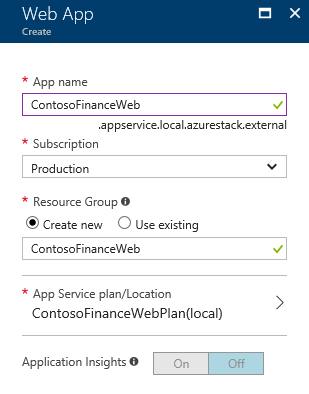
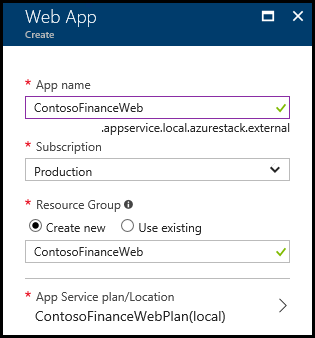
updated lab guide

diff --git a/Hands-on lab/HOL step-by-step - Azure Stack.md b/Hands-on lab/HOL step-by-step - Azure Stack.md
@@ -736,7 +736,7 @@ The first step to getting the website up and running is to configure the SQL Dat
 
 ### Task 2: Register resource providers in the tenant subscription
 
-1.  Launch the Azure Stack tenant portal and click More services -\> search for Subscriptions -\> click the subscription and then click Resource Providers.
+1.  Launch the Azure Stack tenant portal and click All services -\> search for Subscriptions -\> click the subscription and then click Resource Providers.
 
 2.  Click Register by each of the unregistered resource providers except Microsoft.Resources. After the RPs are registered your screen should look like this:
 
@@ -810,7 +810,7 @@ In this exercise, you will provision a website using the Azure Stack portal. The
 
 ### Task 1: Create the Web App
 
-1.  From within the Azure tenant portal, click New -\> Web + Mobile -\> Web App.
+1.  From within the Azure tenant portal, click **+Create a resource -\> Web -\> Web App.**
 
 2.  On the **Everything** blade, select **Web App** followed by **Create**.
 
@@ -829,6 +829,7 @@ In this exercise, you will provision a website using the Azure Stack portal. The
     -   App Name: **Specify a unique and valid URL (until the green check mark appears)**.
 
     -   Resource group: **ContosoFinanceWeb**
+    -   Application Insights - **Disabled**
 
         ![Create blade fields are set to the previously defined settings.](images/Hands-onlabstep-by-step-AzureStackimages/media/image112.png)
 
@@ -936,7 +937,7 @@ In this exercise, you will provision an Azure API App using the Azure Stack port
 
 ### Task 1: Provision the offers Web API App
 
-1.  Using the Azure Stack Tenant portal, click **+New**, **Web + Mobile**, and click **API App**.
+1.  Using the Azure Stack Tenant portal, click **+Create a resource**, **Web**, and click **API App**.
 
     ![Screenshot of the API App button.](images/Hands-onlabstep-by-step-AzureStackimages/media/image129.png)
 
@@ -1034,7 +1035,7 @@ Contoso wants to automate the process of generating applications in PDF format a
 
     ![In the Azure Stack Host, the Clone or download button is selected, and under Clone with HTTPS, the Download ZIP button is selected.](images/Hands-onlabstep-by-step-AzureStackimages/media/image139.png)
 
-2.  From the Tenant portal, click **+New**, **Web + Mobile**, and then click **Function App**.
+2.  From the Tenant portal, click **+Create a resource**, **Web**, and then click **Function App**.
 
     ![Function App option screenshot](images/Hands-onlabstep-by-step-AzureStackimages/media/image140.png)
 
